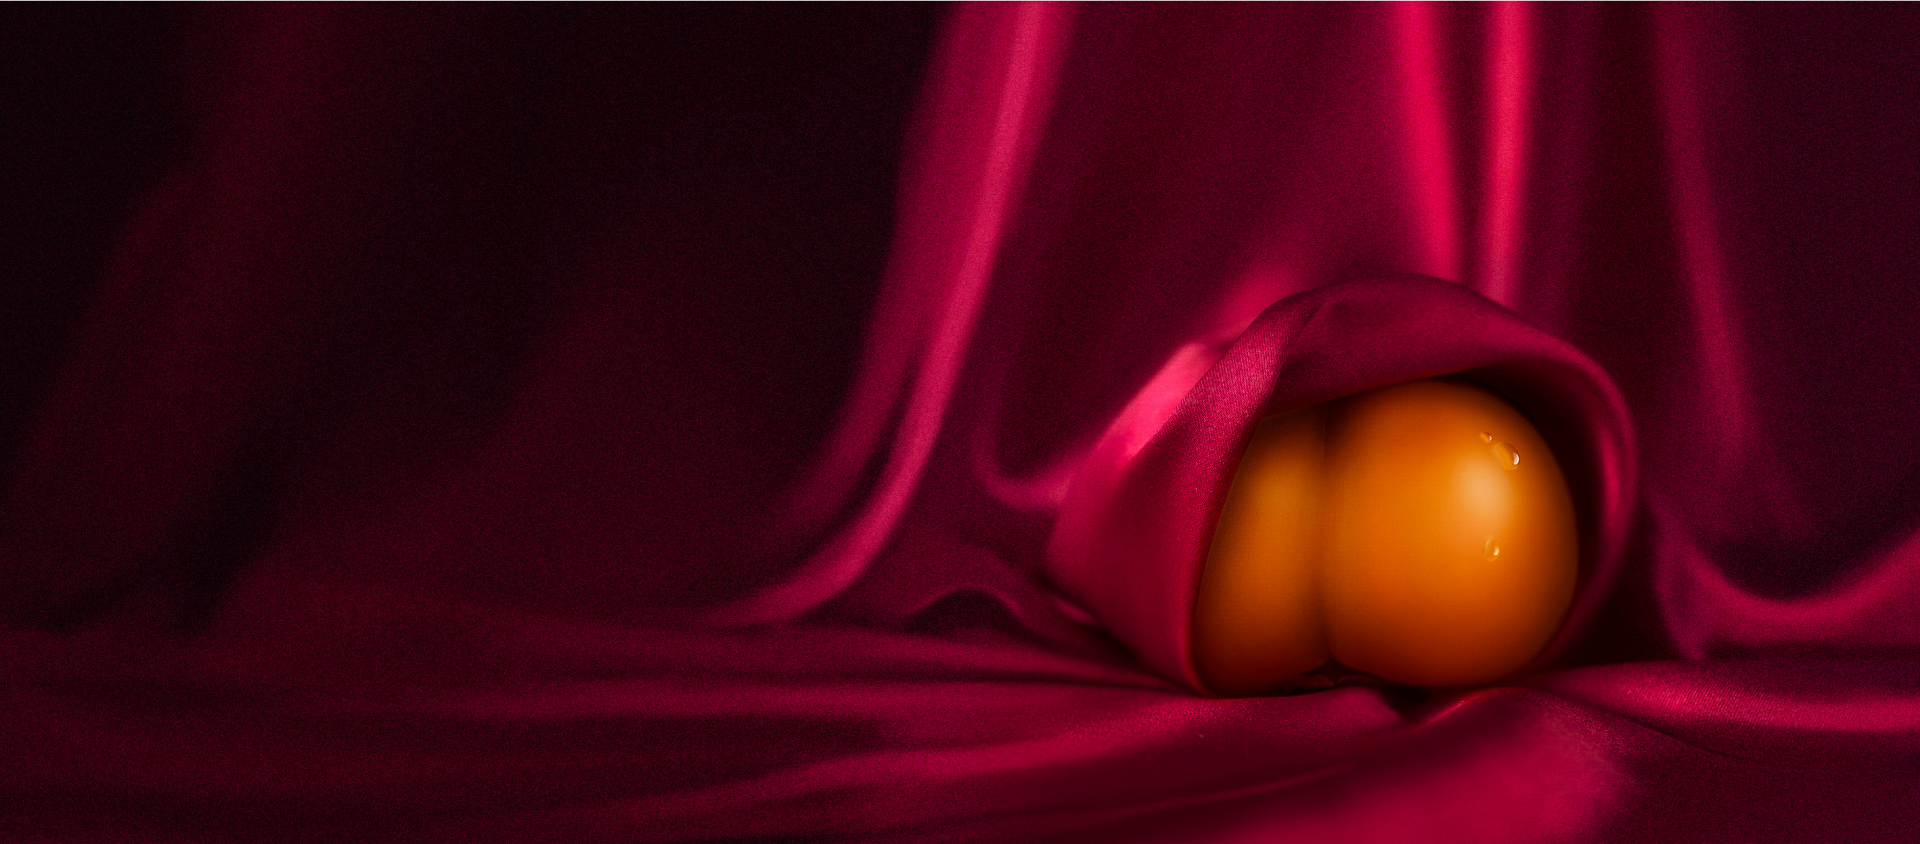
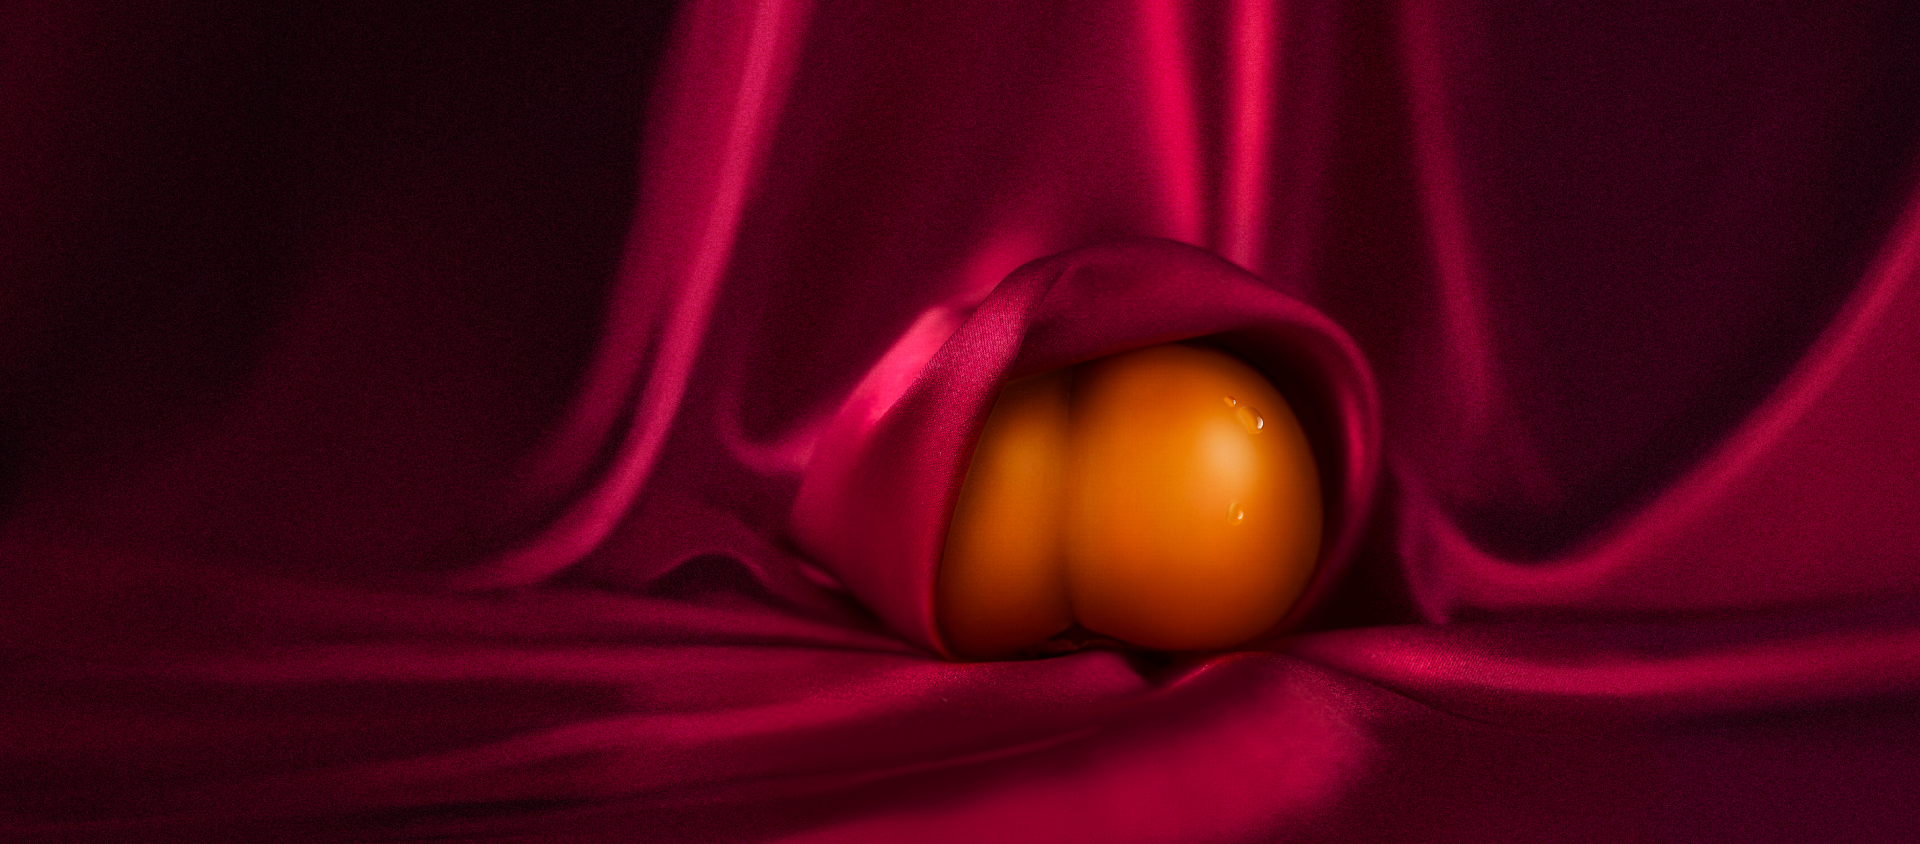
finish hero-block desktop version

diff --git a/src/js/modules/showHero.js b/src/js/modules/showHero.js
@@ -1,3 +1,42 @@
-export const showHero = () => {
+const heroBlockEl = document.querySelector('.hero-block');
+let timeStamp = performance.now();
+let index = 1;
 
+export const images = [
+  './img/hero-block.png',
+  './img/hero-block-1.png',
+  './img/hero-block-2.png'
+];
+
+export const csaHead = (arg) => {
+  if(arg - timeStamp > 5000) {
+    timeStamp = arg;
+
+    if (index === 1) {
+      heroBlockEl.style.backgroundImage = `url(${images[1]})`;
+      index--;
+    } else if (index === 0) {
+      heroBlockEl.style.backgroundImage = `url(${images[0]})`;
+      index = 2;
+    } else if (index === 2) {
+      heroBlockEl.style.backgroundImage = `url(${images[2]})`;
+      index = 3;
+    } else if (index === 3) {
+      heroBlockEl.style.backgroundImage = `url(${images[0]})`;
+      index = 1;
+    }
+  }
+  requestAnimationFrame(csaHead);
+};
+
+export const preload = (images, callback) => {
+  if (images.length) {
+    let image = new Image();
+    image.onload = image.onerror = function() {
+      preload(images, callback);
+    }
+    image.src = images.pop();
+  } else {
+    callback();
+  }
 }

diff --git a/src/scss/pages/home.scss b/src/scss/pages/home.scss
@@ -1,7 +1,15 @@
 .hero-block {
-  background-attachment: fixed;
   width: 100%;
-  animation: scroll linear 20s infinite;
+  background: url(../img/hero-block.png)  no-repeat;
+  background-size: cover;
+  transition:all 3s ease;
+  -webkit-transition:all 3s ease;
+  -moz-transition:all 3s ease;
+  -o-transition:all 3s ease;
+  opacity: 1;
+  z-index: -2;
+  animation: scroll linear 30s infinite;
+  padding-bottom: rem(174);
 
   &__content {
     margin-top: rem(160);

diff --git a/src/scss/components/btns.scss b/src/scss/components/btns.scss
@@ -10,7 +10,7 @@
     transition: $transitionHover;
 
     &:hover {
-      color: #E5E5E5;
+      color: #ABABAB;
       border: 2px solid $mainColor;
       background: $mainColor;
       cursor: pointer;
@@ -24,7 +24,7 @@
     transition: $transitionHover;
 
     &:hover {
-      color: #E5E5E5;
+      color: #ABABAB;
       border: 2px solid $redColor;
       background: $redColor;
       cursor: pointer;

diff --git a/src/js/app.js b/src/js/app.js
@@ -1,8 +1,16 @@
 import * as flsFunctions from "./modules/functions.js";
 import {faqFunction} from "./modules/faq.js";
+import {preload, csaHead, images} from "./modules/showHero.js";
+
+preload(images.slice(0), function() {
+  requestAnimationFrame(csaHead);
+});
 
 faqFunction();
+
 flsFunctions.isWebp();
+
+
 
 /*
 import Swiper, { Navigation, Pagination } from 'swiper';

diff --git a/src/index.html b/src/index.html
@@ -4,7 +4,7 @@
 "title":"Главная"
 })
 <body>
-<div class="hero-block" style="background-image: url(./img/hero-block.png); height: 850px;">
+<div class="hero-block">
   @@include('html/header.html',{})
   <div class="__container">
     <div class="hero-block__content">

diff --git a/src/scss/utils/animations.scss b/src/scss/utils/animations.scss
@@ -1,9 +1,9 @@
 //анимация первого фона
 @keyframes scroll {
   from {
-    background-position: 0 0;
+    background-position: center center;
   }
   to {
-    background-position: 100% 0;
+    background-position: 0 20%;
   }
 }
